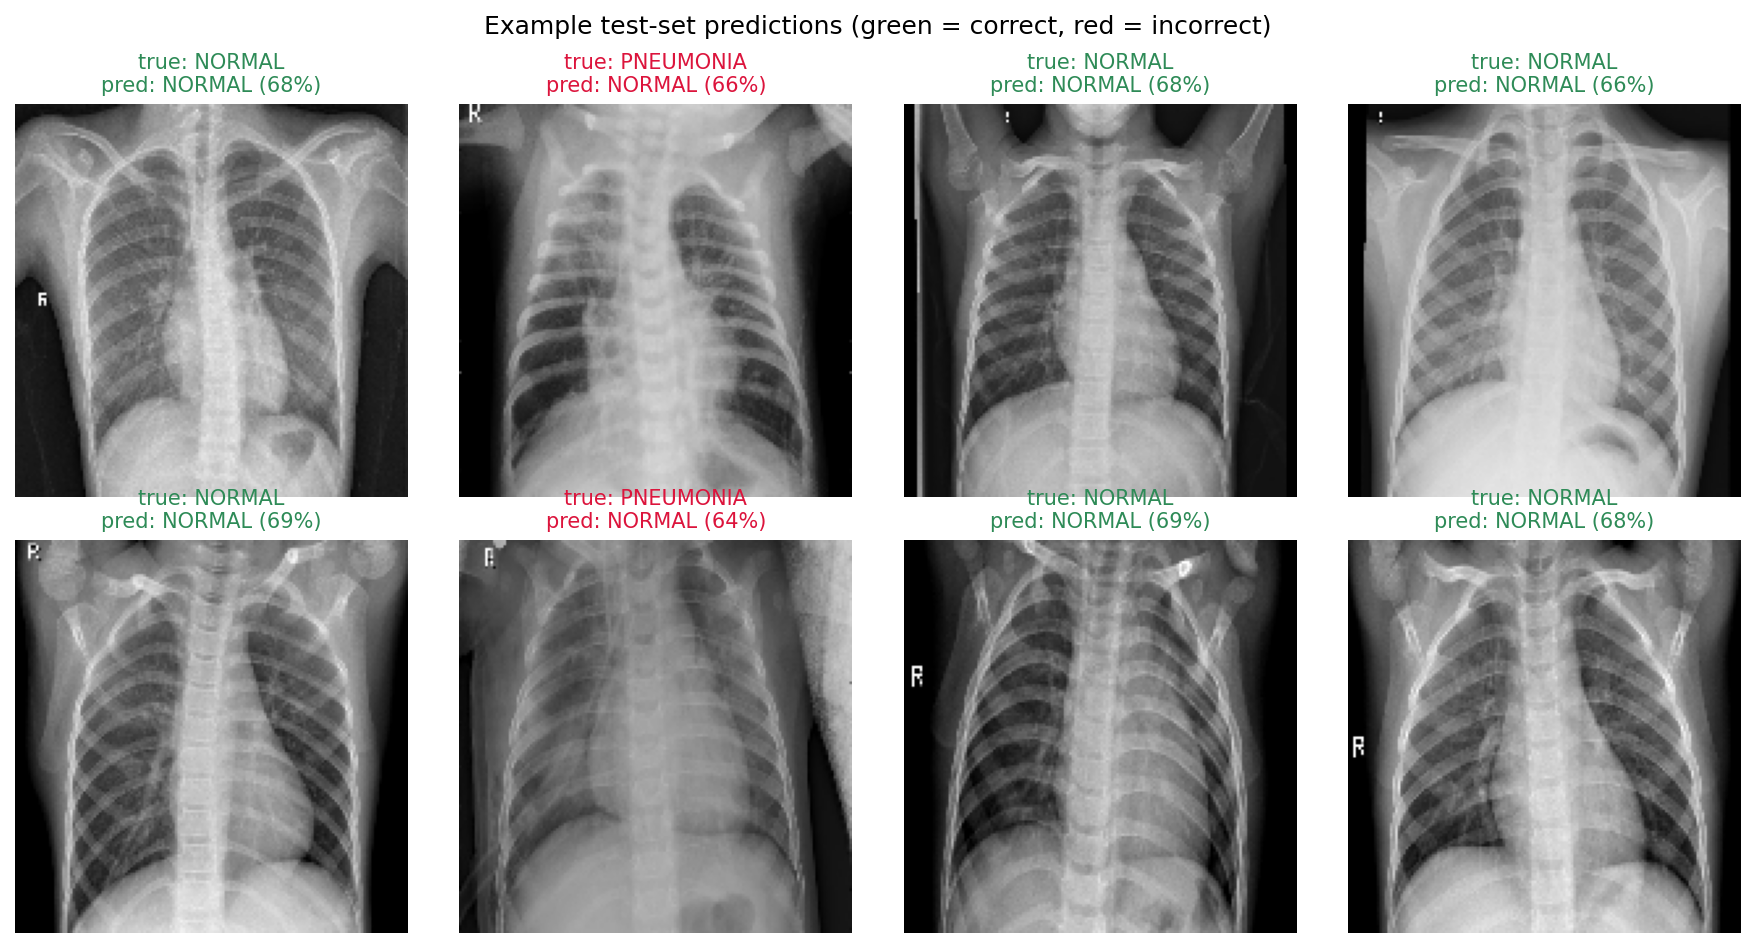
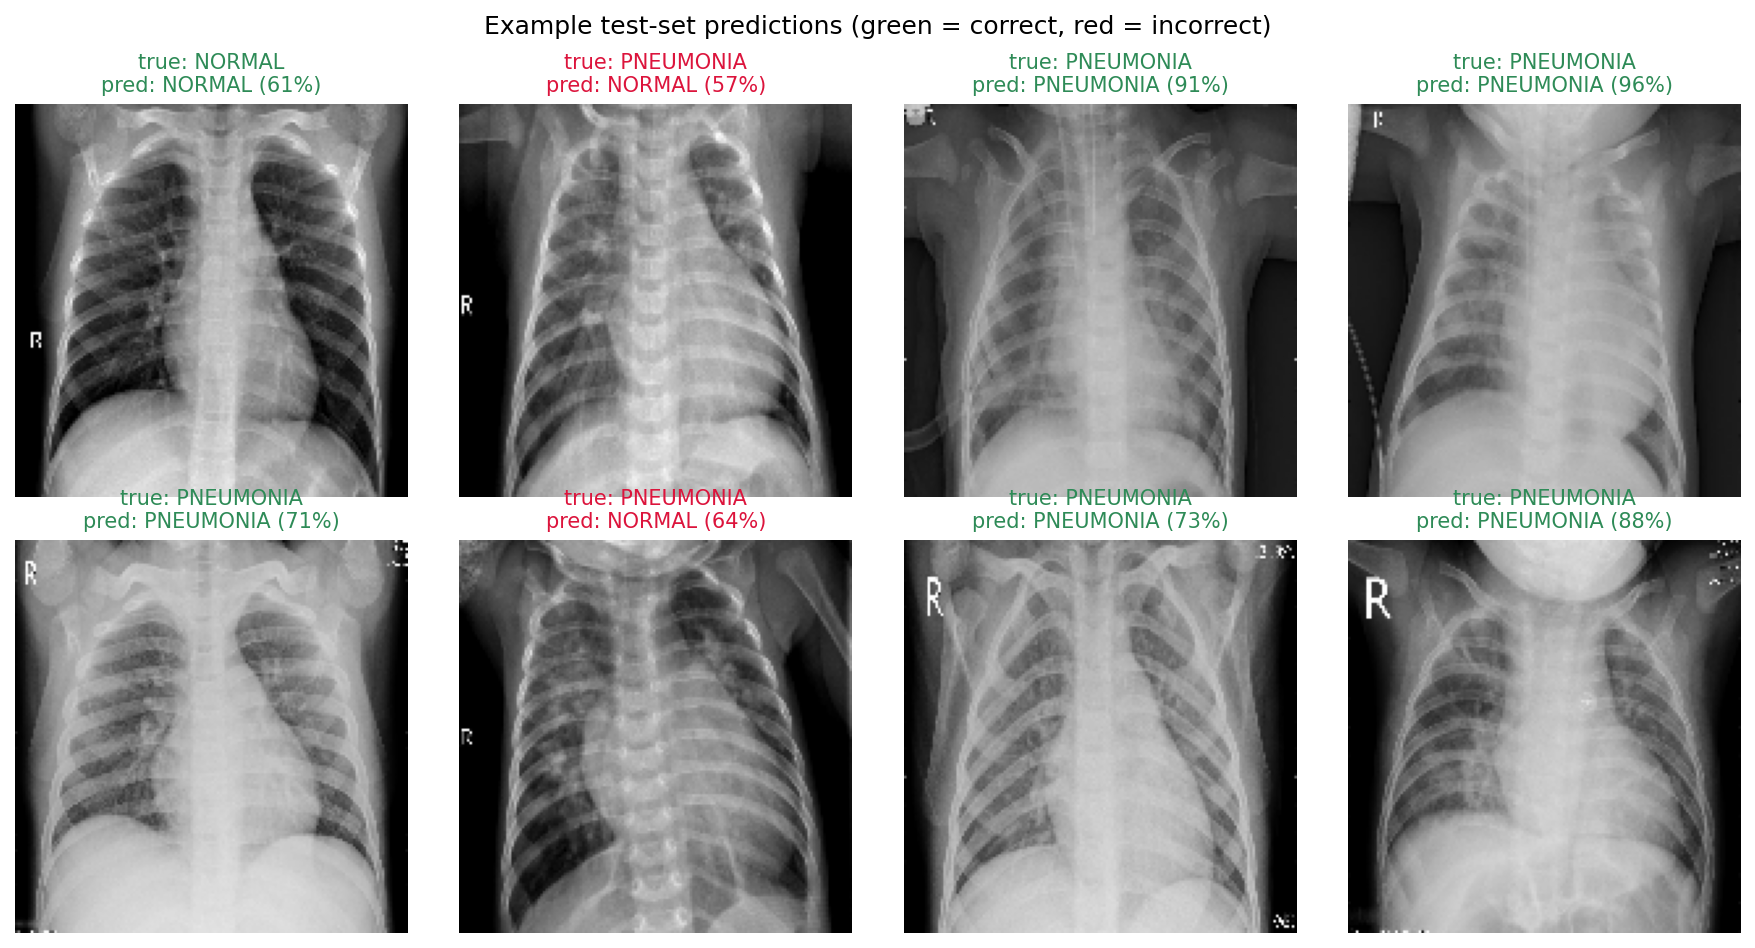
Add real reproduced results and correct example predictions

diff --git a/docs/results.md b/docs/results.md
@@ -68,8 +68,44 @@ papering over:
 - **No random seed was fixed**, so re-running the original notebook
   produced slightly different numbers each time. `utils.set_seed` is
   called at the start of `train.py` for reproducibility.
+- **The dataset's official `val/` folder contains only 16 images.** This
+  is a well-documented quirk of this specific Kaggle dataset, and it bit
+  a real training run of this repo's `improved` model: with such a tiny,
+  noisy validation signal, `EarlyStopping`/`ReduceLROnPlateau` restored a
+  checkpoint that had collapsed into predicting `NORMAL` for every image
+  (37.5% test accuracy, 0% precision/recall on the `PNEUMONIA` class --
+  which is exactly the fraction of `NORMAL` images in the test set).
+  `build_generators` now carves a validation split out of the *training*
+  folder instead (`TrainingConfig.validation_split`, default 15%), giving
+  a validation set roughly 50x larger. The real `test/` folder is
+  untouched by this change and remains the only thing used for the
+  reported metrics above.
 
 Because of these fixes, a fresh run of `train.py` in this repository is
 not expected to reproduce the exact percentages above -- it's a distinct,
 corrected implementation of the same experiment. The table is kept here as
 the historical result the team reported.
+
+## Reproduced results (this repo)
+
+Actual output of `train.py --model improved --epochs 15` in this repo,
+after the validation-split fix above (see `test_metrics.json`):
+
+| Metric | Value |
+| --- | --- |
+| Accuracy | 81.89% |
+| Precision | 81.99% |
+| Recall | 91.03% |
+| F1 | 86.26% |
+
+Confusion matrix: 156 true negatives, 78 false positives, 35 false
+negatives, 355 true positives (624 test images total).
+
+This is lower than the historical 91.28% figure above, which is expected
+-- this is a different, corrected implementation (fixed random seed, fixed
+validation split, fixed VGG-19/layer-freezing bugs) rather than a replay of
+the original run, and it was trained for 15 epochs with no additional
+hyperparameter tuning. Recall (91%) is notably higher than precision (82%)
+here, meaning the model catches most true pneumonia cases at the cost of
+some false alarms on healthy X-rays -- a reasonable trade-off for a
+screening tool, though not tuned for it deliberately.

diff --git a/README.md b/README.md
@@ -100,6 +100,12 @@ pneumonia-xray-cnn/
 | Basic CNN | 90.13% |
 | ResNet-50 | 89.14% |
 
+*Table above: the original team's reported results (see [Project origin](#project-origin)).
+This repo's own reproduction of the Improved CNN, after fixing a validation-set
+issue described below, reached **81.89% accuracy / 86.26% F1** -- see
+[`docs/results.md`](docs/results.md#reproduced-results-this-repo) for the full
+breakdown and why an exact match to the historical number isn't expected.*
+
 See [`docs/results.md`](docs/results.md) for the full breakdown (precision,
 recall, F1, confusion matrices) and for the notes on bugs found and fixed
 while refactoring the original notebook into this package.
